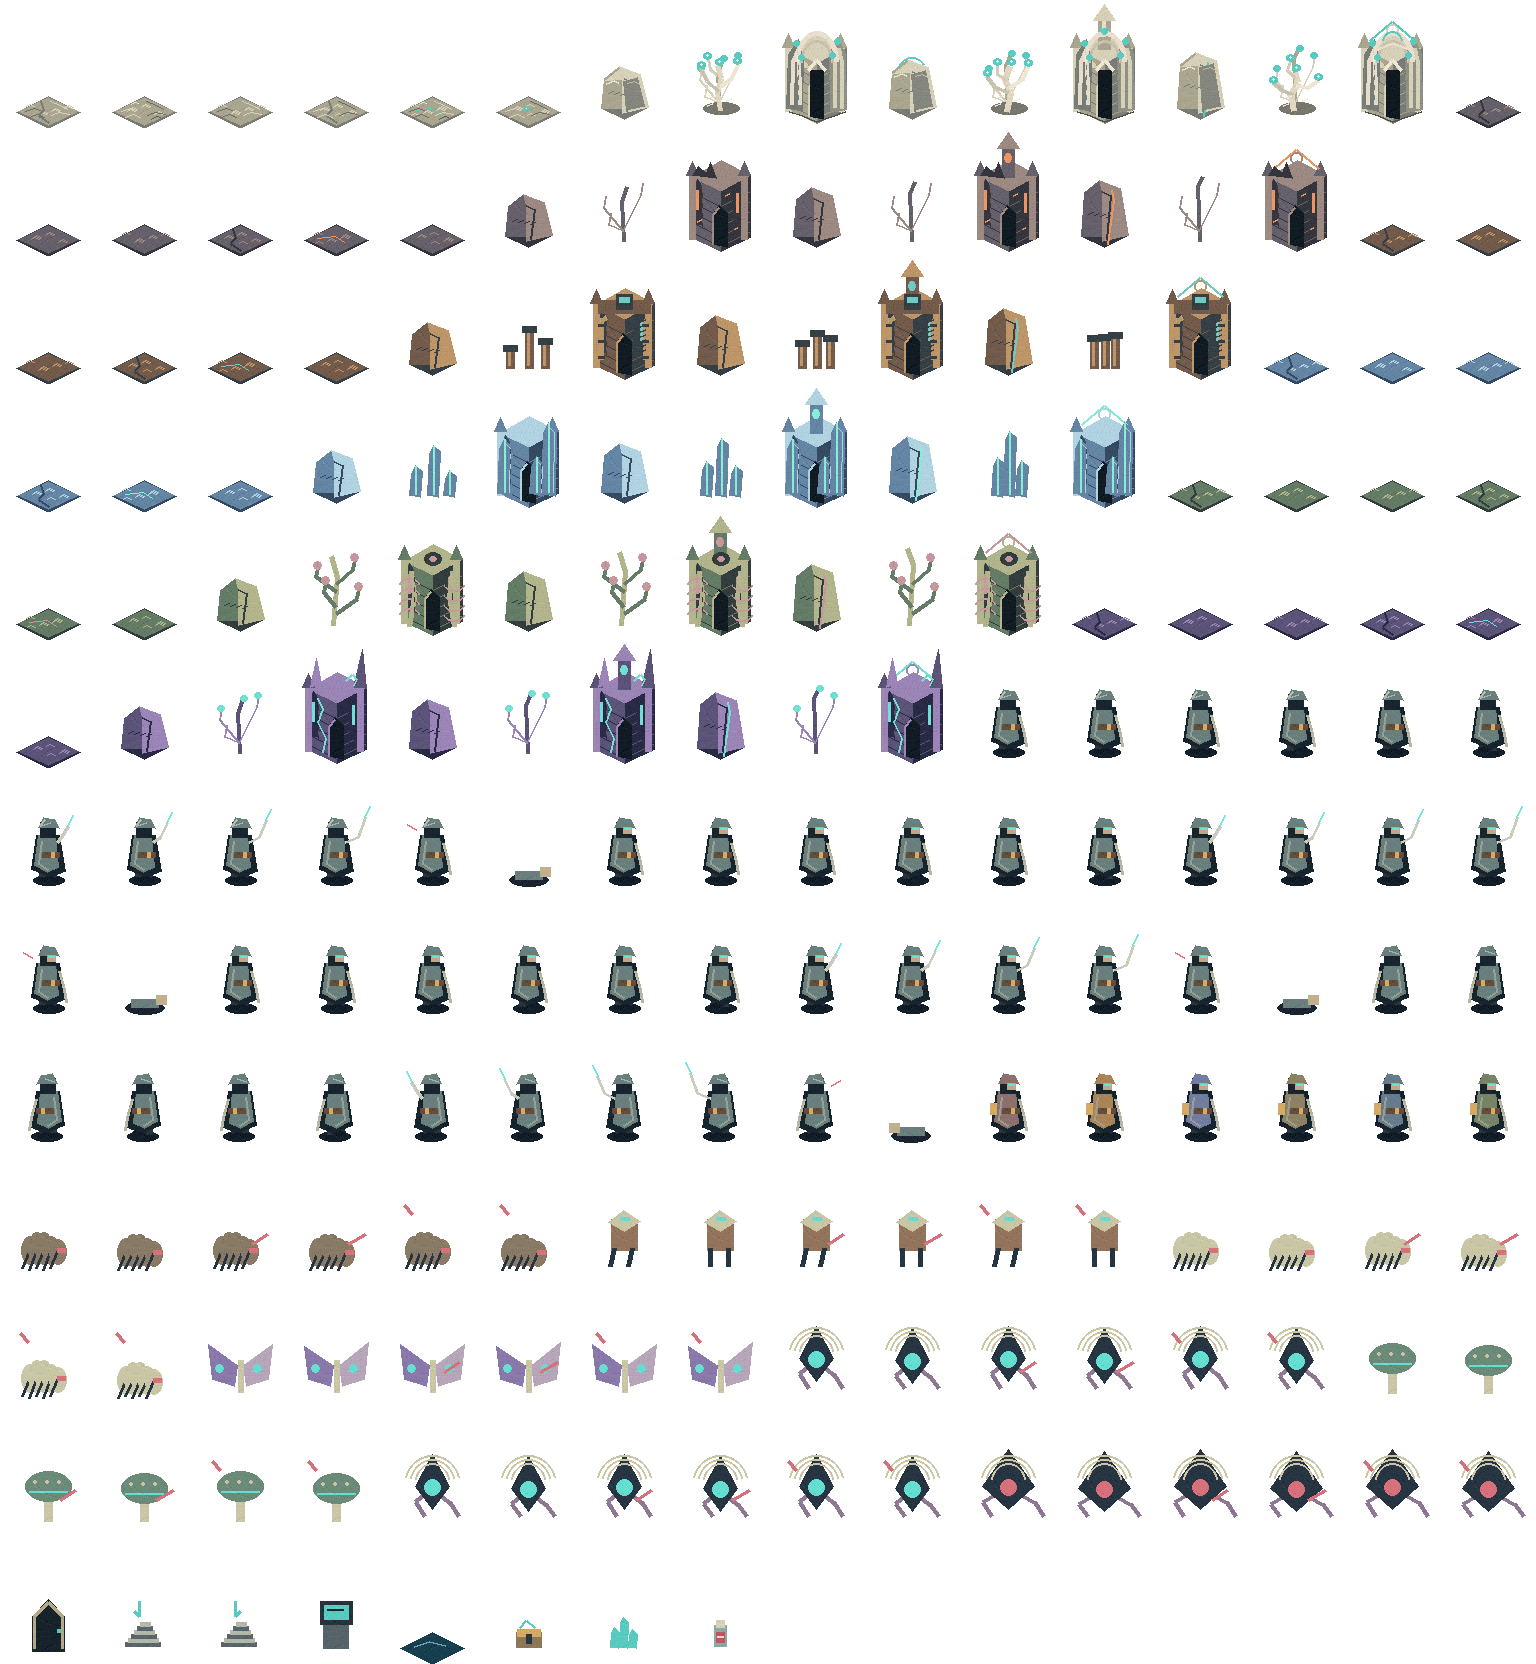
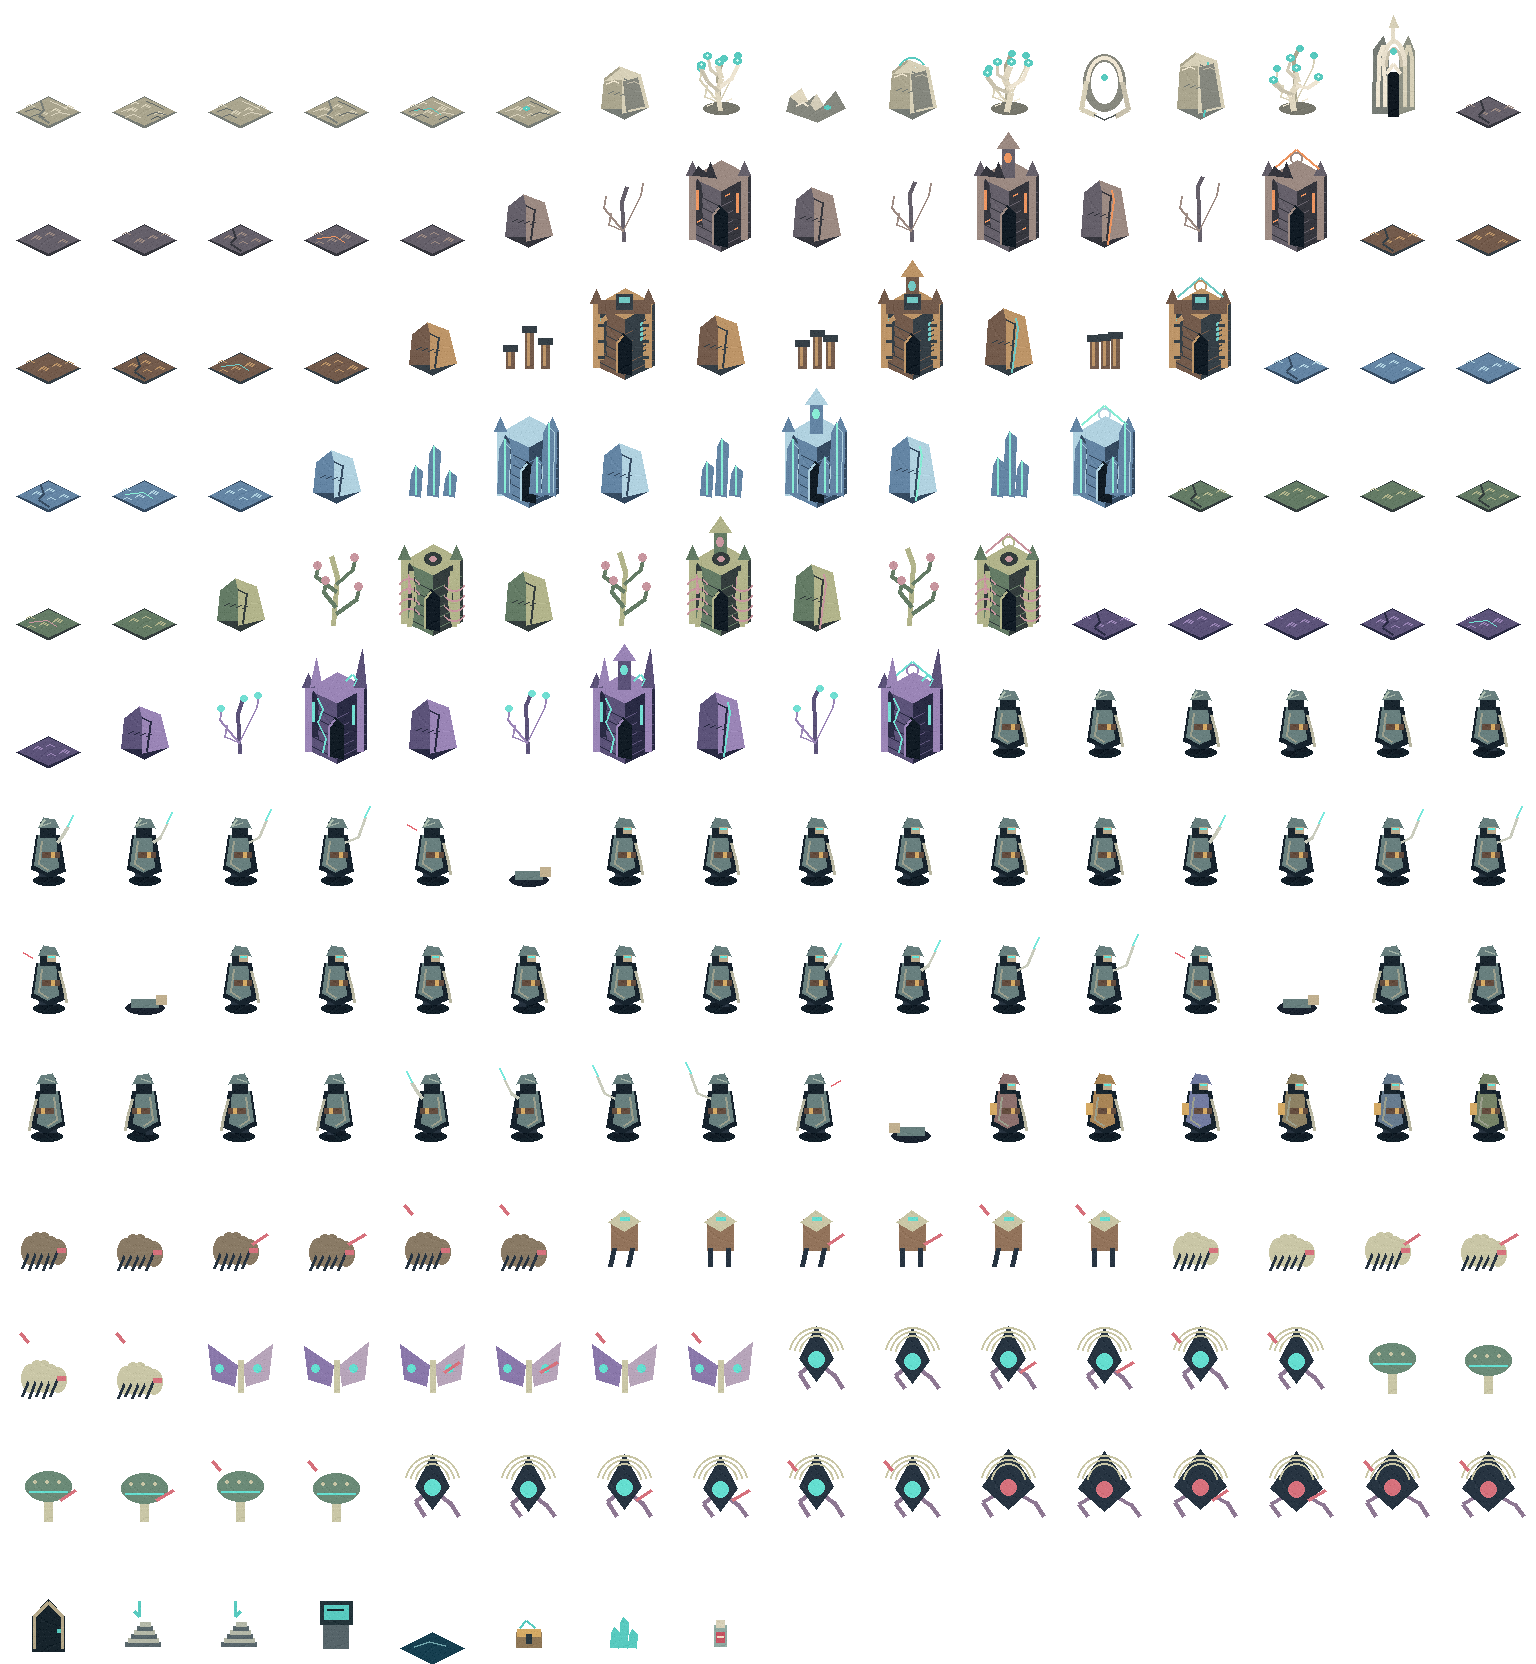
art: vary Salinas architecture silhouettes

Changed region(s): [[0.6875, 0.0, 0.75, 0.0938], [0.5, 0.0, 0.5625, 0.0938], [0.875, 0.0, 0.9375, 0.0938]]

diff --git a/scripts/art/build_isometric_assets.py b/scripts/art/build_isometric_assets.py
@@ -96,6 +96,36 @@ def flora(d,p,v,biome):
   for x,y in [(38,97),(54,100),(35,105)]:d.line([(x,y),(x+5,y-2)],fill='#f2ead6',width=2)
 def architecture(d,p,v,biome):
  a,b,c,g=p
+ if biome=='salinas':
+  # Walls are often adjacent cells: mix low debris, ribs and rare landmarks so
+  # the map reads as terrain instead of a repeated row of full-sized buildings.
+  if v==0:
+   poly(d,[(18,111),(22,96),(33,88),(39,101),(48,94),(55,105),(67,91),(77,108),(49,122)],'#85877e')
+   poly(d,[(22,96),(33,88),(39,101),(31,104)],'#e0d7c0')
+   poly(d,[(48,94),(55,105),(47,110),(42,104)],'#d3ccb8')
+   d.line([(28,105),(34,102),(39,105)],fill='#eee5d2',width=2)
+   d.ellipse((56,105,62,109),fill='#58cabf')
+  elif v==1:
+   # Single broken rib arch, lower and narrower than the landmark tower.
+   d.ellipse((27,54,69,111),outline='#88897f',width=8)
+   d.arc((30,56,66,106),180,360,fill='#eee5d2',width=4)
+   d.line([(30,81),(25,109),(39,115)],fill='#d7d0b8',width=5)
+   d.line([(66,82),(72,109),(59,116)],fill='#c8c1ad',width=5)
+   d.line([(38,114),(48,119),(59,114)],fill='#555b5b',width=2)
+   d.ellipse((45,74,51,80),fill='#58cabf')
+  else:
+   # A landmark structure appears only on the tallest of the three variants.
+   poly(d,[(28,113),(29,49),(39,36),(44,53),(44,114)],'#777c76')
+   poly(d,[(55,114),(55,53),(64,36),(70,51),(70,109)],'#8e9184')
+   d.line([(34,106),(35,56),(39,45),(40,106)],fill='#eee5d2',width=4)
+   d.line([(61,106),(61,57),(64,45),(67,58),(67,106)],fill='#d7d0b8',width=4)
+   d.arc((37,39,62,91),180,360,fill='#e8dfcc',width=5)
+   d.arc((41,47,58,85),180,360,fill='#c9c1ad',width=3)
+   d.rectangle((44,72,54,116),fill='#101820')
+   d.line([(42,73),(49,64),(56,73)],fill='#eee5d2',width=3)
+   d.ellipse((46,48,52,54),fill='#58cabf')
+   if v==2:d.line([(49,42),(49,25)],fill='#e5ddc9',width=4);poly(d,[(45,27),(49,15),(54,27)],'#d7d0b8')
+  return
  # buttressed structure, separately occluded by its ground anchor
  poly(d,[(19,109),(19,49),(49,32),(78,47),(78,109),(49,123)],a)
  poly(d,[(19,49),(49,32),(78,47),(48,63)],c);poly(d,[(19,49),(48,63),(48,123),(19,109)],b)
